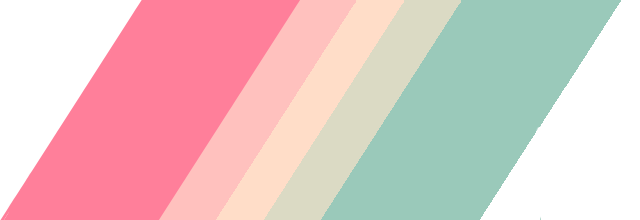
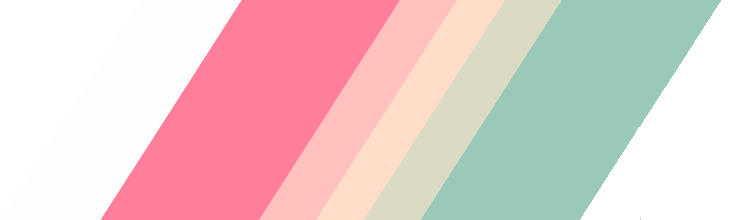
1. Добавил белую полосу к stripes.png 2. Видео перенесено повыше 3. Квесты "Сон" и "Кабинет деда" поменяны местами 4. Пункт Участники теперь содержит только 6 картинок

diff --git a/index.html b/index.html
@@ -97,20 +97,6 @@
           <div class="row">
 
             <div class="row">
-              <div class="col-sm-4 relative">
-                <img src="images/coh.jpg">
-                <div class="rooms-overlay">
-                  <ul>
-                    <li><span class="man"></span></li>
-                    <li><span class="man"></span></li>
-                    <li><span class="man"></span></li>
-                    <li><span class="man"></span></li>
-                  </ul>
-                  <span class="title">Квест: "Сон"</span>
-                  <span class="cost">Цена: 1000 руб. с команды</span>
-                  <a href="#contacts" class="booking page-scroll">Забронировать!</a>
-                </div>
-              </div>
 
               <div class="col-sm-4 relative">
                 <img src="images/grandfather.jpg">
@@ -122,6 +108,21 @@
                     <li><span class="man"></span></li>
                   </ul>
                   <span class="title">Квест: "Кабинет деда"</span>
+                  <span class="cost">Цена: 1000 руб. с команды</span>
+                  <a href="#contacts" class="booking page-scroll">Забронировать!</a>
+                </div>
+              </div>
+
+              <div class="col-sm-4 relative">
+                <img src="images/coh.jpg">
+                <div class="rooms-overlay">
+                  <ul>
+                    <li><span class="man"></span></li>
+                    <li><span class="man"></span></li>
+                    <li><span class="man"></span></li>
+                    <li><span class="man"></span></li>
+                  </ul>
+                  <span class="title">Квест: "Сон"</span>
                   <span class="cost">Цена: 1000 руб. с команды</span>
                   <a href="#contacts" class="booking page-scroll">Забронировать!</a>
                 </div>
@@ -152,7 +153,7 @@
         </div>
         <div class="point">
           <img src="images/team.png"><br/>
-          <p>Приходи за 10 минут до начала игры</p>
+          <p>Приходи за 5 минут до начала игры</p>
         </div>
         <div class="arrow">
           <img src="images/arrow.png">
@@ -171,42 +172,6 @@
         <div class="container content">
 
           <div class="row">
-
-            <div class="col-sm-2 col-xs-4">
-              <a href="http://vk.com/album-75004909_203159149" class="all" target="_blank">
-                <img src="images/participants/1.jpg">
-              </a>
-            </div>
-
-            <div class="col-sm-2 col-xs-4">
-              <a href="http://vk.com/album-75004909_203159149" class="all" target="_blank">
-                <img src="images/participants/1.jpg">
-              </a>
-            </div>
-
-            <div class="col-sm-2 col-xs-4">
-              <a href="http://vk.com/album-75004909_203159149" class="all" target="_blank">
-                <img src="images/participants/1.jpg">
-              </a>
-            </div>
-
-            <div class="col-sm-2 col-xs-4">
-              <a href="http://vk.com/album-75004909_203159149" class="all" target="_blank">
-                <img src="images/participants/1.jpg">
-              </a>
-            </div>
-
-            <div class="col-sm-2 col-xs-4">
-              <a href="http://vk.com/album-75004909_203159149" class="all" target="_blank">
-                <img src="images/participants/1.jpg">
-              </a>
-            </div>
-
-            <div class="col-sm-2 col-xs-4">
-              <a href="http://vk.com/album-75004909_203159149" class="all" target="_blank">
-                <img src="images/participants/1.jpg">
-              </a>
-            </div>
 
             <div class="col-sm-2 col-xs-4">
               <a href="http://vk.com/album-75004909_203159149" class="all" target="_blank">

diff --git a/css/styles.css b/css/styles.css
@@ -139,7 +139,7 @@ span.cp-big {
     margin-bottom: 5%;
 }
 .offer {
-    margin: 10% 0;
+    margin: 7% 0 1%;
     color: #555;
 }
 .offer h1 {
@@ -147,7 +147,7 @@ span.cp-big {
     font-size: 45px;
     background-image: url(../images/stripes.png);
     background-repeat: no-repeat;
-    background-position-x: 60%;
+    background-position-x: 50%;
 }
 .offer h2 {
     color: #555;
